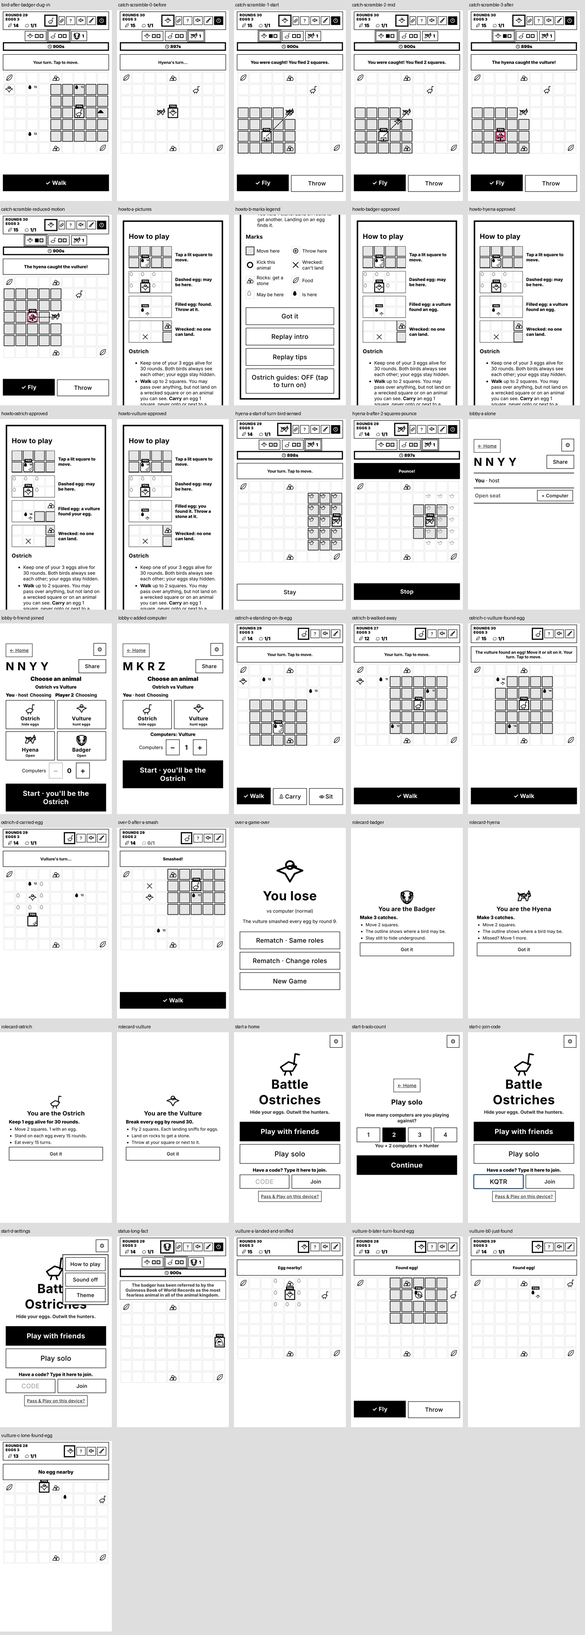
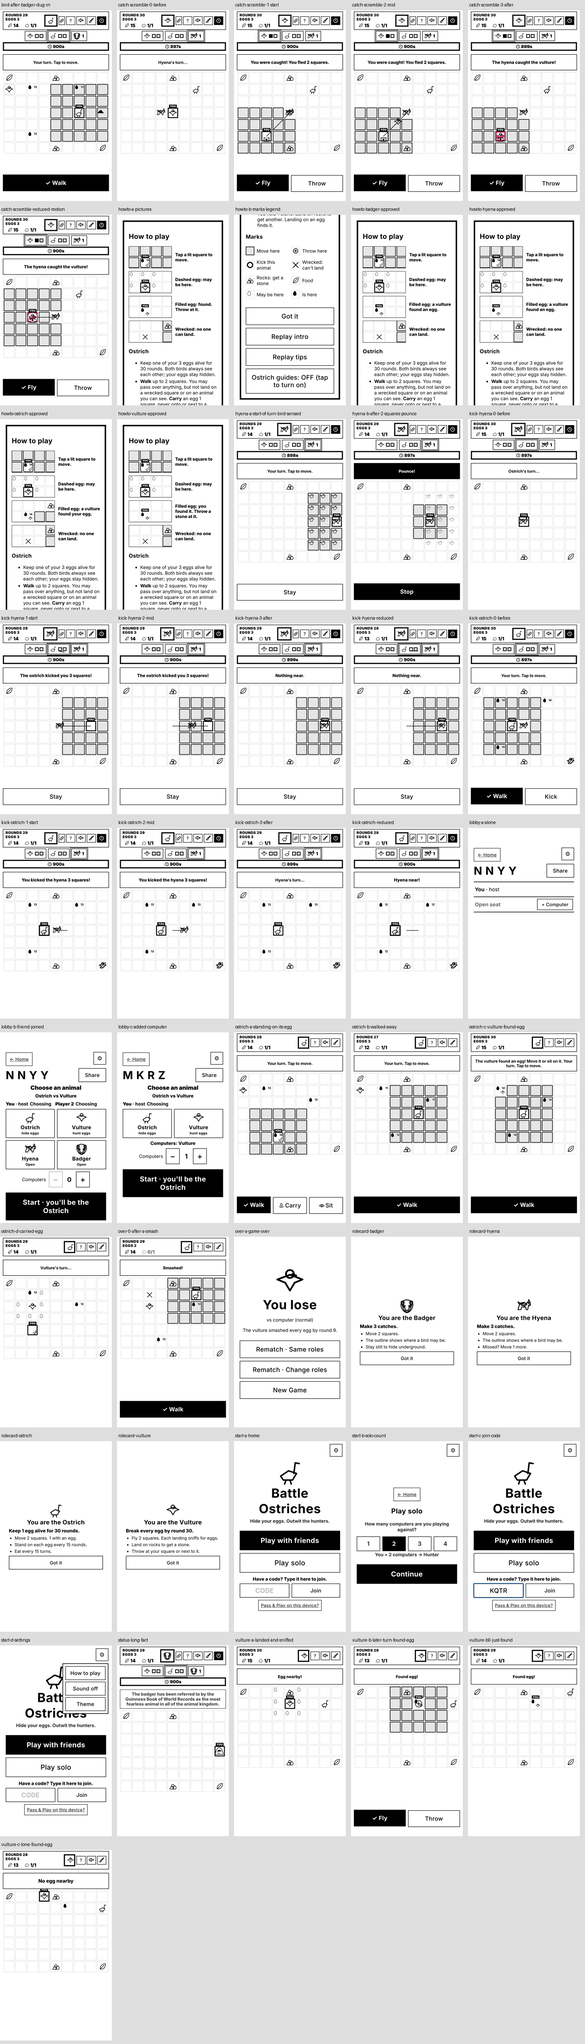
Restore knockout god view and viewer-safe interaction motion

diff --git a/server.js b/server.js
@@ -128,10 +128,11 @@ function view3(room, role) {
     v = view(sub, role); v.myTurn = mine; v.joined = SEATS3.every(s => room.players[s]); v.ai = null;
     if (role === 'blue' && !mine) { v.moves = []; v.carryMoves = []; v.can = { sit: false, carry: false }; }
     if (role === 'red' && !mine) { v.fly = []; v.throw = []; }
-    // Knockout does not grant new sight; only the finished game reveals the board.
+    // Brian: an eliminated bird watches a read-only full board for the rest of the game.
     if (g.phase === 'play' && T.isOut(g, role)) {
-      v.myTurn = false; v.moves = []; v.carryMoves = []; v.fly = []; v.throw = []; v.hmoves = [];
-      v.can = { sit: false, carry: false };
+      v.god = true; v.myTurn = false; v.moves = []; v.carryMoves = []; v.fly = []; v.throw = []; v.hmoves = [];
+      v.can = { sit: false, carry: false }; v.ostrich = g.ostrich; v.vulture = g.vulture; v.eggs = eggView(g);
+      h3.hunter = t.h.slice(); h3.burrowed = !!t.burrowed; if (h3.popout) h3.popout.seen = true; if (lc) lc.at = t.lastCatch.at;
     }
   }
   // Kick: the ostrich's options; the kick itself is announced to every seat, the square it ended on only to a seat that can see that square
@@ -244,8 +245,11 @@ function viewT(room, seat) {
     kickTargets: mine ? TT.kickTargets(g, seat) : [], kickNear: mine && TT.kickable(g, seat).length > 0 });
   if (isV) Object.assign(v, { fly: mine ? TT.flyTargets(g, seat) : [], throw: mine ? TT.throwTargets(g, seat) : [] });
   if (myB.out && g.phase === 'play') {
-    v.myTurn = false; v.moves = []; v.carryMoves = []; v.fly = []; v.throw = []; v.hmoves = [];
-    v.can = { sit: false, carry: false, kick: false }; v.kickTargets = []; v.kickNear = false;
+    v.god = true; v.myTurn = false; v.moves = []; v.carryMoves = []; v.fly = []; v.throw = []; v.hmoves = [];
+    v.can = { sit: false, carry: false, kick: false }; v.kickTargets = []; v.kickNear = false; v.kick = kickOf(true); v.eggs = eggs();
+    v.h3.pieces = TT.OS.concat(TT.VS).filter(s => s !== seat && TT.live(g, s))
+      .map(s => ({ seat: s, type: TT.isO(s) ? 'o' : 'v', p: g.b[s].pos, mate: (TT.isO(s) && isO) || (TT.isV(s) && isV), carrying: isO && TT.isO(s) && g.b[s].carrying != null }));
+    if (g.h) { v.h3.hunter = g.h.p.slice(); v.h3.burrowed = !!g.h.burrowed; if (v.h3.popout) v.h3.popout.seen = true; if (lc) lc.at = g.lastCatch.at; }
   } else if (myB.out) { v.myTurn = false; v.moves = []; v.carryMoves = []; v.fly = []; v.throw = []; }
   return stamp(room, v, seat);
 }
@@ -327,8 +331,10 @@ function viewH(room, seat) {
     if (seat === 'blue' && !mine) { v.moves = []; v.carryMoves = []; v.can = { sit: false, carry: false }; }
     if (seat === 'red' && !mine) { v.fly = []; v.throw = []; }
     if (g.phase === 'play' && HU.isOut(g, seat)) {
-      v.myTurn = false; v.moves = []; v.carryMoves = []; v.fly = []; v.throw = []; v.hmoves = [];
-      v.can = { sit: false, carry: false };
+      v.god = true; v.myTurn = false; v.moves = []; v.carryMoves = []; v.fly = []; v.throw = []; v.hmoves = [];
+      v.can = { sit: false, carry: false }; v.ostrich = g.ostrich; v.vulture = g.vulture; v.eggs = eggView(g);
+      h3.hunters = HU.HUNTERS.map(h => ({ kind: h, p: t.hs[h].p.slice(), burrowed: !!t.hs[h].burrowed, me: false }));
+      if (h3.rival) h3.rival.to = t.rival.to; if (h3.popout) h3.popout.seen = true; if (lc) lc.at = t.lastCatch.at;
     }
   }
   if (seat === 'blue') { v.kickTargets = mine && !v.god ? HU.kickTargetsH(g) : []; v.kickNear = !!mine && !v.god && HU.kickableH(g).length > 0; v.can = Object.assign(v.can || {}, { kick: v.kickTargets.length > 0 }); }
@@ -374,6 +380,17 @@ function viewerIsHost(room, v) {
   return roster.some(r => r.host && (r.role === v.role || (v.role === 'hunter' && (r.role === v.kind || r.role === 'hunter'))));
 }
 // picked: true means Start gave this seat to the player; they did not choose it (lobby.js plan). Roster seat = view seat.
+// Motion packets contain ONLY squares this viewer may see. Null steps preserve public timing, not hidden destinations.
+const motionPath=require('./public/push-motion').path;
+function trailView(room,v,seat,key,from,to,wrap=false,n=3){
+ const g=room.g,pts=motionPath(g.cfg,from,to,wrap,n),isHunter=['hunter','hyena','badger'].includes(seat),ownKind=v.kind||(v.h3||{}).kind;
+ return pts.map(p=>{if(g.phase==='over'||v.god)return p;
+  const bird=key==='blue'||key==='red'||/^[ov][12]$/.test(key);
+  if(bird)return isHunter?null:p;
+  if(isHunter){if(key===ownKind||key===seat)return p;return g.hunt&&v.hunter&&B.dist(v.hunter,p)<=2?p:null;}
+  const eye=v.role==='blue'?v.ostrich:v.vulture;return eye&&eye[0]>=0&&B.dist(eye,p)<=2?p:null;
+ });
+}
 function stamp(room, v, seat) {
   if (v && room && room.g) {
     if (room.g.phase === 'over') v.god = true; // Brian: finished-game full reveal for everyone.
@@ -385,8 +402,13 @@ function stamp(room, v, seat) {
     const g = room.g, t = g.three || g.hunt || (g.team && g.h ? g : null), over = g.phase === 'over';
     if (t) { const bur = g.three ? g.three.burrowed : g.hunt ? g.hunt.hs.badger.burrowed : g.h.burrowed, m = t.mound;
       v.h3.dug = t.dug ? { seq: t.dug.seq, round: t.dug.round } : null; v.h3.mound = !over && bur && m && (m.seenBy || []).includes(seat) ? m.at.slice() : null;
-      const bs = g.hunt && g.hunt.burst; v.h3.burst = bs ? { seq: bs.seq, round: bs.round, n: bs.n, to: over || ['hyena', 'badger'].includes(seat) || HU.seen(g, seat, 'hyena') ? bs.to : null } : null; } }
-  if (v && room && room.g) { const g = room.g; v.endWhy = g.phase === 'over' ? g.endWhy || null : null; v.stoneNote = g.lastStone ? { seq: g.lastStone.seq, text: g.lastStone.text, by: g.lastStone.by, targets: g.lastStone.targets || [] } : null;
+      const bs = g.hunt && g.hunt.burst; v.h3.burst = bs ? { seq: bs.seq, round: bs.round, n: bs.n, to: over || v.god || ['hyena', 'badger'].includes(seat) || HU.seen(g, seat, 'hyena') ? bs.to : null } : null; } }
+  if (v && room && room.g) { const g = room.g; v.endWhy = g.phase === 'over' ? g.endWhy || null : null; v.stoneNote = g.lastStone ? { seq: g.lastStone.seq, text: g.lastStone.text, by: g.lastStone.by, targets: g.lastStone.targets || [], kicker:g.lastStone.kicker||null } : null;
+    v.smashNote = g.lastSmash ? {seq:g.lastSmash.seq,by:g.lastSmash.by,owner:v.role==='blue'||v.god?g.lastSmash.owner:null} : null;
+    if(v.kick&&g.lastKick){const k=g.lastKick,key=g.team?(k.seat==='hunter'?g.h.kind:k.seat):k.who==='vulture'?'red':k.who;v.kick.trail=trailView(room,v,seat,key,k.from,k.to,true,k.moved||3);v.kick.key=key;}
+    if(v.stoneNote)v.stoneNote.trails=(g.lastStone.trails||[]).map(t=>({key:t.key,points:trailView(room,v,seat,t.key,t.from,t.to,false,2)}));
+    if(v.h3&&g.hunt){const rv=g.hunt.rival,bs=g.hunt.burst;if(v.h3.rival&&rv)v.h3.rival.trail=trailView(room,v,seat,rv.by==='hyena'?'badger':'hyena',rv.at,rv.to,false,2);if(v.h3.burst&&bs)v.h3.burst.trail=trailView(room,v,seat,'hyena',bs.at,bs.to,false,2);}
+
     // anyone who can see the ostrich sees it sit: birds always; hunters only through ambush sight (a buried badger with the ostrich next to it)
     const hunterSeat = ['hunter', 'hyena', 'badger'].includes(seat) && g.phase !== 'over';
     const amb = !hunterSeat ? [] : (g.three && seat === 'hunter' ? T.ambushSight(g) : g.hunt && seat === 'badger' ? HU.ambushSight(g) : g.team && seat === 'hunter' ? TT.ambushSight(g) : []);

diff --git a/public/push-motion.js b/public/push-motion.js
@@ -22,14 +22,19 @@
  function events(s,prev){if(!prev||!s.cfg||!(s.phase==='play'||s.phase==='over'&&prev.phase==='play'))return [];const out=[],a=positions(prev),b=positions(s),h=s.h3||{},old=prev.h3||{};
   const add=(key,from,to,wrap,max)=>{const points=path(s.cfg,from,to,wrap,max);if(points.length>1&&!out.some(e=>e.key===key))out.push({key,points});};
   const lc=h.lastCatch;if(s.role!=='hunter'&&fresh(lc,old.lastCatch)&&!lc.ko&&valid(lc.at)&&valid(lc.to))add(lc.bird,lc.at,lc.to,false,2);
+  if(fresh(s.kick,prev.kick)&&s.kick.trail&&s.kick.trail.some(valid)&&s.kick.trail.length>1)out.push({key:s.kick.key,points:s.kick.trail});
   if(fresh(s.kick,prev.kick)&&valid(s.kick.to))for(const key in b)if(same(b[key],s.kick.to)&&valid(a[key]))add(key,a[key],b[key],true,s.kick.moved||3);
+  if(fresh(h.rival,old.rival)&&h.rival.trail&&h.rival.trail.some(valid)&&h.rival.trail.length>1)out.push({key:h.rival.by==='badger'?'hyena':'badger',points:h.rival.trail});
   if(fresh(h.rival,old.rival)&&valid(h.rival.to)){const key=h.rival.by==='badger'?'hyena':'badger';add(key,a[key],h.rival.to,false,2);}
+  if(fresh(h.burst,old.burst)&&h.burst.trail&&h.burst.trail.some(valid)&&h.burst.trail.length>1)out.push({key:'hyena',points:h.burst.trail});
   if(fresh(h.burst,old.burst)&&valid(h.burst.to))add('hyena',a.hyena,h.burst.to,false,2);
+  if(fresh(s.stoneNote,prev.stoneNote))for(const t of s.stoneNote.trails||[])if(t.points.some(valid)&&t.points.length>1)out.push({key:t.key,points:t.points});
   if(fresh(s.stoneNote,prev.stoneNote))for(const key in b)if(valid(a[key])&&!same(a[key],b[key]))add(key,a[key],b[key],false,2);
   return out;
  }
  function run(s,prev,board){if(typeof document==='undefined')return;const stage=document.getElementById('stage');if(!stage)return;
-  const pending=events(s,prev),current=positions(s);
+  const pending=events(s,prev),current=positions(s);cause(s,prev,board);
+  stage.querySelectorAll('.partial-motion').forEach(l=>{if(l._stamp!==JSON.stringify([s.turn,s.round,s.lastAction,current]))l._finish();else l._bind();});
   // Duplicate state packets may redraw the board during a push. Keep the original
   // one-second clock and bind the newly drawn destination piece, rather than jumping.
   stage.querySelectorAll('.push-motion').forEach(layer=>{
@@ -38,6 +43,7 @@
    if(a&&layer._moving){a.style.visibility='hidden';layer._hidden.push(a);}
   });
   for(const ev of pending){
+   if(ev.points.some(p=>!valid(p))){partial(ev,s,board,stage,current);continue;}
    const last=ev.points[ev.points.length-1],cell=board.children[last[1]*s.cfg.cols+last[0]];if(!cell)continue;
    const cls=ev.key==='blue'||/^o\d/.test(ev.key)?'.po':ev.key==='red'||/^v\d/.test(ev.key)?'.pv':'.ph.h'+ev.key;
    const actor=cell.querySelector('.pc'+cls);if(!actor)continue;
@@ -64,6 +70,29 @@
     }
    }
    setTimeout(layer._finish,1050);
+  }
+ }
+ // Partial slides never infer a missing square: hold/fade at the last permitted square.
+ function partial(ev,s,board,stage,current){
+  const known=ev.points.filter(valid);if(!known.length)return;const first=known[0],sr=stage.getBoundingClientRect(),c=board.children[first[1]*s.cfg.cols+first[0]],r=c.getBoundingClientRect();
+  const cls=ev.key==='blue'||/^o[12]$/.test(ev.key)?'po':ev.key==='red'||/^v[12]$/.test(ev.key)?'pv':'ph h'+ev.key;
+  const tmp=document.createElement('div');tmp.className='pc '+cls;tmp.style.visibility='hidden';tmp.innerHTML=ev.key==='hyena'||ev.key==='badger'?window.T3UI.KIND[ev.key].art:'';c.appendChild(tmp);const ar=tmp.getBoundingClientRect();tmp.remove();
+  const layer=document.createElement('div');layer.className='partial-motion';layer.setAttribute('aria-hidden','true');layer._stamp=JSON.stringify([s.turn,s.round,s.lastAction,current]);layer.style.cssText='position:absolute;inset:0;pointer-events:none;z-index:190';
+  const NS='http://www.w3.org/2000/svg',svg=document.createElementNS(NS,'svg');svg.style.cssText='position:absolute;inset:0;width:100%;height:100%;overflow:visible';
+  const xy=p=>{const x=board.children[p[1]*s.cfg.cols+p[0]].getBoundingClientRect();return{x:x.left-sr.left+x.width/2,y:x.top-sr.top+x.height/2};};
+  for(let i=1;i<ev.points.length;i++)if(valid(ev.points[i-1])&&valid(ev.points[i])){const a=xy(ev.points[i-1]),b=xy(ev.points[i]),l=document.createElementNS(NS,'line');for(const [k,v]of Object.entries({x1:a.x,y1:a.y,x2:b.x,y2:b.y,stroke:'currentColor','stroke-width':2,'stroke-dasharray':'3 3'}))l.setAttribute(k,v);svg.appendChild(l);}
+  layer.appendChild(svg);stage.appendChild(layer);layer._hidden=[];layer._moving=!matchMedia('(prefers-reduced-motion:reduce)').matches;layer._bind=()=>{const end=ev.points[ev.points.length-1];if(!layer._moving||!valid(end))return;const cell=board.children[end[1]*s.cfg.cols+end[0]],pc=cell.querySelector('.pc.'+cls.split(' ').join('.'));if(pc){pc.style.visibility='hidden';layer._hidden.push(pc);}};layer._bind();layer._finish=()=>{layer._hidden.forEach(e=>e.style.visibility='');layer.remove();};
+  if(!matchMedia('(prefers-reduced-motion:reduce)').matches){const copy=tmp.cloneNode(true);copy.classList.add('push-actor');copy.style.cssText=`position:absolute!important;left:${ar.left-sr.left}px!important;top:${ar.top-sr.top}px!important;width:${ar.width}px!important;height:${ar.height}px!important;border:0!important;background:transparent!important;visibility:visible!important;opacity:1!important;pointer-events:none!important;`;layer.appendChild(copy);
+   const base=xy(first);let last=base;const frames=ev.points.map((p,i)=>{if(valid(p))last=xy(p);return {transform:`translate(${last.x-base.x}px,${last.y-base.y}px)`,opacity:valid(p)?1:0,offset:i/(ev.points.length-1)};});copy.animate(frames,{duration:1000,easing:'linear'});
+  }setTimeout(layer._finish,1050);
+ }
+ function cause(s,prev,board){if(!prev)return;const h=s.h3||{},old=prev.h3||{},items=[];
+  if(fresh(s.kick,prev.kick))items.push({by:s.kick.by||'blue',kick:true});
+  if(fresh(s.stoneNote,prev.stoneNote)&&s.stoneNote.targets?.length)items.push({by:s.stoneNote.by||'red'});
+  if(fresh(h.rival,old.rival))items.push({by:h.rival.by});if(fresh(h.burst,old.burst))items.push({by:'badger'});if(fresh(h.lastCatch,old.lastCatch))items.push({by:h.lastCatch.by||h.kind});
+  for(const item of items){const cls=item.by==='blue'||/^o[12]$/.test(item.by)?'.pc.po':item.by==='red'||/^v[12]$/.test(item.by)?'.pc.pv':'.pc.h'+item.by;
+   const p=positions(s)[item.by],cell=valid(p)?board.children[p[1]*s.cfg.cols+p[0]]:null,pc=cell&&cell.querySelector(cls),chip=document.querySelector('#h3bar [data-b="'+item.by+'"]'),el=pc||chip;if(!el)continue;el.classList.add('push-cause');setTimeout(()=>el.classList.remove('push-cause'),1050);
+   if(item.kick){const leg=document.createElement('i');leg.className='kick-leg';el.appendChild(leg);setTimeout(()=>leg.remove(),1050);}
   }
  }
  const api={path,positions,events,run};if(typeof module!=='undefined')module.exports=api;root.PUSH_MOTION=api;

diff --git a/public/catchtext.js b/public/catchtext.js
@@ -2,7 +2,8 @@
 // Rules live in three.js / hunt.js / team.js; this only turns a lastCatch into a sentence. The numbers come from the rules, never typed here.
 (function () {
   const isVulture = b => b === 'red' || b === 'v1' || b === 'v2';
-  const birdWord = b => isVulture(b) ? 'vulture' : 'ostrich';
+  const birdWord = b => isVulture(b) ? 'vulture' : b==='o1'?'Ostrich 1':b==='o2'?'Ostrich 2':'ostrich';
+  const birdObject=b=>/^o[12]$/.test(b)?birdWord(b):'the '+birdWord(b);
   const hunterWord = k => k === 'badger' ? 'badger' : 'hyena';
   const SEAT = { o1: 'Ostrich 1', o2: 'Ostrich 2', v1: 'Vulture 1', v2: 'Vulture 2' };
   const more = n => n === 1 ? 'one more catch' : n + ' more catches';
@@ -21,7 +22,7 @@
   function catchLine(lc, viewer, kind, left) {
     if(!lc.ko){
       if(viewer===lc.bird){const n=lc.at&&lc.to?Math.max(Math.abs(lc.to[0]-lc.at[0]),Math.abs(lc.to[1]-lc.at[1])):0;return `You were caught! You fled ${n} square${n===1?'':'s'}.`;}
-      return `The ${hunterWord(kind||lc.by)} caught the ${birdWord(lc.bird)}!`;
+      return `The ${hunterWord(kind||lc.by)} caught ${birdObject(lc.bird)}!`;
     }
     const line = baseLine(lc, viewer, kind, left);
     return hunterWord(kind || lc.by) === 'badger' ? line + ' ' + BL.catchTail(lc) : line;
@@ -34,7 +35,7 @@
     }
     if (viewer === 'hunter' || (lc.by && viewer === lc.by))
       return lc.ko ? `${bird[0].toUpperCase() + bird.slice(1)} knocked out!` : `Caught the ${bird}!`;
-    return `The ${hunter} ${lc.ko ? 'knocked out' : 'caught'} the ${bird}.`;
+    return `The ${hunter} ${lc.ko ? 'knocked out' : 'caught'} ${birdObject(lc.bird)}.`;
   }
   // banner for a bird that is out ("The ostrich is out."; in 2 vs 2 the seat name: "Ostrich 1 is out.")
   const outLine = b => SEAT[b] ? `${SEAT[b]} is out.` : `The ${birdWord(b)} is out.`;
@@ -57,8 +58,9 @@
   function newEvents(seen, S, prev) {
     const out = [], h = (S && S.h3) || {};
     if (!S) return out;
-    if (S.phase && S.phase.startsWith('setup')) { seen.pop = seen.rival = seen.kick = seen.stone = seen.dug = seen.burst = 0; return out; }
+    if (S.phase && S.phase.startsWith('setup')) { seen.pop = seen.rival = seen.kick = seen.stone = seen.dug = seen.burst = seen.smash = 0; return out; }
     const po = h.popout, rv = h.rival, k = S.kick;
+    if(S.smashNote&&S.smashNote.seq!==seen.smash){seen.smash=S.smashNote.seq;if(prev)out.push({kind:'smash',text:'The vulture smashed an egg.'});}
     const la=S.lastAction;if(prev&&h.team&&S.role==='red'&&la&&la.type==='fly'&&la.spotted&&la.seat!==h.mySeat&&JSON.stringify(la)!==JSON.stringify(prev.lastAction))out.push({kind:'teamFound',text:'Your teammate found an egg.'});
     if (k && k.seq !== seen.kick) { seen.kick = k.seq; if (prev) out.push({ kind: 'kick', text: kickLine(k.who, k.moved, S.cfg && S.cfg.kickPush), square: k.to || null }); }
     if (S.stoneNote && S.stoneNote.seq !== seen.stone) { seen.stone = S.stoneNote.seq; if (prev) out.push({ kind: 'stone', text: S.stoneNote.text }); }
@@ -72,19 +74,22 @@
   function viewerEvent(e,S) {
     const h=S.h3||{},seat=h.mySeat||S.role,viewer=S.role==='hunter'?(S.kind||h.kind||seat):seat;
     const name=x=>SEAT[x]?SEAT[x].toLowerCase():x==='blue'?'ostrich':x==='red'?'vulture':x;
+    if(e.kind==='smash'){const n=S.smashNote;if(seat===n.by)return 'You smashed an egg!';if(S.role==='blue')return n.owner&&/^o[12]$/.test(n.owner)&&seat!==n.owner?`The vulture smashed ${SEAT[n.owner]}'s egg!`:'The vulture smashed your egg!';return 'The vulture smashed an egg.';}
     if(e.kind==='kick') {const k=S.kick,n=k.moved==null?(S.cfg||{}).kickPush:k.moved,who=kickWho(k.who),unit=n===1?'square':'squares';
       if(n===0)return e.text;
-      if(seat===(k.by||'blue'))return `You, the ${name(seat)}, kicked the ${who} ${n} ${unit} away.`;
-      if(viewer===(k.target|| (who==='vulture'?'red':who)))return `The ostrich kicked you, the ${name(viewer)}, ${n} ${unit} away.`;
+      if(seat===(k.by||'blue'))return `You kicked the ${who} ${n} ${unit}!`;
+      if(viewer===(k.target|| (who==='vulture'?'red':who)))return `${SEAT[k.by]||'The ostrich'} kicked you ${n} ${unit}!`;
+      return `${SEAT[k.by]||'The ostrich'} kicked the ${who} ${n} ${unit}!`; // DRAFT watcher line
     }
+    if(e.kind==='stone'&&S.stoneNote&&SEAT[S.stoneNote.kicker]&&/^The ostrich kicked the stone/.test(e.text))return e.text.replace('The ostrich',SEAT[S.stoneNote.kicker]);
     if(e.kind==='stone'&&S.stoneNote&&S.stoneNote.targets&&S.stoneNote.targets.length) {
       const n=S.stoneNote,targets=n.targets.join(' and the ');
-      if(seat===n.by)return `You, the ${name(seat)}, hit the ${targets} with a stone.`;
-      if(n.targets.includes(viewer))return `The vulture's stone hit you, the ${name(viewer)}.`;
+      if(seat===n.by)return `Your stone hit the ${targets}!`;
+      if(n.targets.includes(viewer))return 'A stone hit you!';
     }
     if(e.kind==='rival') {const by=h.rival.by,other=by==='hyena'?'badger':'hyena';
-      if(viewer===by)return `You, the ${by}, shoved the ${other}.`;
-      if(viewer===other)return `The ${by} shoved you, the ${other}.`;
+      if(viewer===by)return `You shoved the ${other}!`;
+      if(viewer===other)return `The ${by} shoved you!`;
     }
     if(e.kind==='burst') {
       if(viewer==='badger')return `You, the badger, burst out and shoved the hyena ${h.burst.n} square${h.burst.n===1?'':'s'}.`;

diff --git a/testviewprivacy.js b/testviewprivacy.js
@@ -1,19 +1,26 @@
 process.env.PORT='0';process.env.BO_NOSTORE='1';process.env.BO_BOTMS='900000';
 const A=require('assert'),S=require('./server'),{make}=require('./tests/hunter-fixtures'),T=require('./three'),H=require('./hunt'),TT=require('./team');
+function assertFull(f,role,label){const v=f.view(role),g=f.g;A.equal(v.god,true,label);A.equal(v.myTurn,false);A.deepEqual(v.eggs.map(e=>e.pos),g.eggs.map(e=>e.pos));A(!v.moves?.length&&!v.fly?.length&&!v.throw?.length&&!v.kickTargets?.length);
+ if(g.three)A.deepEqual(v.h3.hunter,g.three.h);if(g.h)A.deepEqual(v.h3.hunter,g.h.p);if(g.hunt)for(const k of ['hyena','badger'])A.deepEqual(v.h3.hunters.find(x=>x.kind===k).p,g.hunt.hs[k].p);
+ const h=g.three||g.h;if(h){h.kind='badger';h.burrowed=true;const buried=f.view(role);A.deepEqual(buried.h3.hunter,h.h||h.p,label+' buried badger position');A.equal(buried.h3.burrowed,true);}
+ if(g.hunt){g.hunt.hs.badger.burrowed=true;const b=f.view(role).h3.hunters.find(x=>x.kind==='badger');A.deepEqual(b.p,g.hunt.hs.badger.p);A.equal(b.burrowed,true,label+' buried badger visible in god view');}
+}
 for(const mode of ['3p','Hunters','5p']){
  const f=make(S,mode),g=f.g;A(f.fly());
  g.marks['3,3']='hit';g.marks['4,3']='stone';
  for(const r of f.roles.filter(r=>['hunter','hyena','badger'].includes(r))){const v=f.view(r);A.equal(v.marks['3,3'],'stone');A.equal(v.marks['4,3'],'stone');A(!v.eggs);}
  if(mode==='3p')T.knockout(g,f.red,'caught');else if(mode==='Hunters')H.knockout(g,f.red,'caught','hyena');else TT.knockout(g,f.red,'caught');
- A.equal(g.phase,'play');const out=f.view(f.red);A(!out.god,mode+' no mid-game god view');A(!out.eggs,mode+' out vulture gets no unknown eggs');A.equal(out.myTurn,false);
- A(!out.h3.hunter,mode+' no hidden hunter');A(!out.h3.hunters||out.h3.hunters.length===0,mode+' no hidden hunters');
+ A.equal(g.phase,'play');assertFull(f,f.red,mode+' out vulture');
  g.phase='over';for(const r of f.roles){const v=f.view(r);A(v.god);A.equal(v.eggs.length,g.eggs.length,mode+' end reveal '+r);}
- console.log('PASS knockout privacy, indistinguishable wreckage and full end reveal '+mode);
- const o=make(S,mode);if(mode==='3p')T.knockout(o.g,o.blue,'caught');else if(mode==='Hunters')H.knockout(o.g,o.blue,'caught','hyena');else TT.knockout(o.g,o.blue,'caught');const ov=o.view(o.blue);A.equal(o.g.phase,'play');A(!ov.god);A(!ov.h3.hunter);A(!ov.h3.hunters||!ov.h3.hunters.length,mode+' out ostrich gets no hidden hunters');
+ console.log('PASS full knockout god view, indistinguishable live hunter wreckage and end reveal '+mode);
+ const o=make(S,mode);if(mode==='3p')T.knockout(o.g,o.blue,'caught');else if(mode==='Hunters')H.knockout(o.g,o.blue,'caught','hyena');else TT.knockout(o.g,o.blue,'caught');A.equal(o.g.phase,'play');assertFull(o,o.blue,mode+' out ostrich');
  const k=make(S,mode),q=k.g;q.marks={};q.turn=k.blue;
  if(mode==='5p'){q.b.o1.pos=[3,3];q.b.o2.pos=[0,0];q.b.v1.pos=[8,6];q.b.v2.pos=[0,6];q.h.p=[4,3];A(TT.ostrichKick(q,k.blue,[4,3]));}
  else{q.ostrich=[3,3];q.vulture=[8,6];if(mode==='3p'){q.three.h=[4,3];A(T.ostrichKick3(q,[4,3]));}else{q.hunt.hs.hyena.p=[4,3];q.hunt.hs.badger.p=[8,0];A(H.ostrichKickH(q,[4,3]));}}
- const v=k.view(k.blue);A.equal(v.kick.to,null,mode+' kick landing hidden');A.equal(v.lastAction.to,null,mode+' move note landing hidden');A.equal(v.lastAction.type,'kick');
+ const v=k.view(k.blue);A.equal(v.kick.to,null,mode+' kick landing hidden');A.equal(v.lastAction.to,null,mode+' move note landing hidden');A.equal(v.lastAction.type,'kick');A.deepEqual(v.kick.trail,[[4,3],[5,3],null,null],mode+' only visible kick squares');A.deepEqual(k.view(mode==='Hunters'?'hyena':'hunter').kick.trail,[[4,3],[5,3],[6,3],[7,3]],mode+' kicked hunter sees own complete slide');
 }
 for(const n of [4,5]){const f=make(S,'5p');if(n===4){f.g.n=4;f.g.h=null;f.g.order=f.g.order.filter(r=>r!=='hunter');}A(f.fly());A.equal(f.view('v2').marks['2,1'],'spotted','vulture team shares exact found egg');for(const r of ['o1','o2'])A.equal(f.view(r).eggs.length,2,'ostrich team shares both nests');}
+for(const r of ['o1','v1']){const f=make(S,'5p');f.g.n=4;f.g.h=null;f.g.order=f.g.order.filter(x=>x!=='hunter');TT.knockout(f.g,r,'caught');A.equal(f.g.phase,'play');assertFull(f,r,'2v2 '+r);}
+const B=require('./game'),f=make(S,'3p'),g=B.newGame();for(const p of [[2,1],[6,1],[2,5]])A(B.placeEgg(g,p));A(B.placeOstrich(g,[6,5]));g.turn='blue';g.hungerLeft=1;A(B.ostrichStep(g,[5,5]));A.equal(g.phase,'over');const room={...f.room,three:false,g};for(const r of ['blue','red']){const v=S.view(room,r);A(v.god);A.equal(v.eggs.length,3);}
+console.log('PASS full view for 2v2 knockouts and Classic game-ending knockout');
 S.close();console.log('PASS team sharing retained in 2v2 and 5p');process.exit(0);

diff --git a/tools/shots-real-play.js b/tools/shots-real-play.js
@@ -117,7 +117,7 @@ const near = (a, c) => Math.max(Math.abs(a[0] - c[0]), Math.abs(a[1] - c[1]));
     await shot(O, 'ostrich-b-walked-away'); await O.evaluate(() => UI.card()); await sleep(400); await shot(O,'rolecard-ostrich');
     await O.context().close();
   }
-  if (want('hyena') || want('badger') || want('catch')) {
+  if (want('hyena') || want('badger') || want('catch') || want('kick')) {
     const lobby = async kind => {
       const A = await phone(b), Vp = await phone(b), H = await phone(b);
       await A.goto(U); await A.click('#playFriend'); await A.waitForSelector('#lobbyCode:not(:empty)'); const link = (await A.inputValue('#lobbyLink')).replace(/^http:\/\/[^/]+/, 'http://localhost:4172');
@@ -130,6 +130,23 @@ const near = (a, c) => Math.max(Math.abs(a[0] - c[0]), Math.abs(a[1] - c[1]));
       const act = (role, m) => { if (!server.act3(r3, role, m)) throw new Error('illegal ' + role + JSON.stringify(m)); bc(); };
       return { A, Vp, H, r3, g3, bc, act };
     };
+    if (want('kick')) {
+      const {A,Vp,H,g3,bc,act}=await lobby('hyena'),g=g3();g.turn='blue';g.ostrich=[3,3];g.vulture=[8,6];g.three.h=[4,3];g.three.pounce=false;bc();await sleep(3400);
+      await shot(A,'kick-ostrich-0-before');await shot(H,'kick-hyena-0-before');act('blue',{a:'kick',p:[4,3]});
+      await A.waitForSelector('.partial-motion .push-actor');await H.waitForSelector('.push-motion .push-actor');
+      const fade=await A.locator('.partial-motion .push-actor').evaluate(e=>e.getAnimations()[0].effect.getKeyframes().some(f=>f.opacity===0||f.opacity==='0'));if(!fade)throw new Error('missing sight-edge fade');
+      const ka=await A.evaluate(()=>UI._S().kick),kh=await H.evaluate(()=>UI._S().kick);
+      if(ka.to!==null||ka.trail.some(p=>p&&Math.max(Math.abs(p[0]-3),Math.abs(p[1]-3))>2))throw new Error('kick leaked a hidden landing/path square');
+      if(ka.trail.filter(Boolean).length!==2||kh.trail.filter(Boolean).length!==4)throw new Error('kick must fade at sight edge, while own phone sees all three steps');
+      if(await H.locator('#board .pc.po').count())throw new Error('hunter learned a hidden ostrich position');
+      if(!await A.locator('#board .pc.po .kick-leg').count()||!await H.locator('#h3bar [data-b="blue"] .kick-leg').count())throw new Error('missing viewer-correct kick cause');
+      await shot(A,'kick-ostrich-1-start');await shot(H,'kick-hyena-1-start');bc();await sleep(300);
+      if(!await A.locator('.partial-motion .push-actor').count())throw new Error('duplicate packet interrupted partial slide');
+      await shot(A,'kick-ostrich-2-mid');await shot(H,'kick-hyena-2-mid');await sleep(750);await shot(A,'kick-ostrich-3-after');await shot(H,'kick-hyena-3-after');
+      await A.emulateMedia({reducedMotion:'reduce'});await H.emulateMedia({reducedMotion:'reduce'});g.turn='blue';g.three.h=[4,3];bc();await sleep(100);act('blue',{a:'kick',p:[4,3]});await A.waitForSelector('.partial-motion');
+      if(await A.locator('.push-actor').count()||await H.locator('.push-actor').count())throw new Error('reduced-motion kick must have static trails only');
+      await shot(A,'kick-ostrich-reduced');await shot(H,'kick-hyena-reduced');for(const p of [A,Vp,H])await p.context().close();
+    }
     if (want('catch')) {
       const { A, Vp, H, g3, bc, act } = await lobby('hyena');
       const g=g3();g.turn='hunter';g.three.h=[3,3];g.three.pounce=false;g.vulture=[4,3];g.ostrich=[6,1];bc();await sleep(3400);

diff --git a/testplay.js b/testplay.js
@@ -38,7 +38,7 @@ function setup3(kind = 'hyena', h = [8, 3]) {
   assert(T.placeOstrich3(g, [6, 5])); return g;
 }
 
-ok('3p: eliminated bird remains read-only without gaining hidden sight', () => {
+ok('3p: eliminated bird gets a read-only god view; living seats do not', () => {
   const { room } = S.create3({ role: 'blue', bots: ['red', 'hunter'], kind: 'hyena' }, null);
   room.g = setup3('hyena', [0, 3]);
   assert.equal(S.view3(room, 'blue').showTimers, true);
@@ -53,10 +53,10 @@ ok('3p: eliminated bird remains read-only without gaining hidden sight', () => {
   assert(T.isOut(room.g, 'blue')); assert.equal(room.g.phase, 'play');
   room.g.three.burrowed = true; room.g.three.h = [0, 3];
   const dead = S.view3(room, 'blue');
-  assert.equal(dead.god, undefined); assert.equal(dead.myTurn, false);
+  assert.equal(dead.god, true); assert.equal(dead.myTurn, false);
   assert.deepEqual(dead.moves, []); assert.deepEqual(dead.carryMoves, []);
   assert.deepEqual(dead.can, { sit: false, carry: false, kick: false });
-  assert.equal(dead.h3.hunter, null); assert.equal(dead.h3.burrowed, false);
+  assert.deepEqual(dead.h3.hunter, [0, 3]); assert.equal(dead.h3.burrowed, true);
   assert.ok(dead.eggs.some(e => e.pos[0] === 2 && e.pos[1] === 1));
   assert.equal(S.act3(room, 'blue', { a: 'step', p: [5, 4] }), false);
   const red = S.view3(room, 'red');
@@ -77,7 +77,7 @@ ok('3p: a living ostrich can still act', () => {
   assert.equal(room.g.turn, 'hunter');
 });
 
-ok('5p: eliminated ostrich keeps team egg knowledge but cannot see the hidden hunter', () => {
+ok('5p: eliminated ostrich sees the burrowed hunter and all eggs; living seats do not', () => {
   const { room } = S.createT({ team: 5, role: 'o1', bots: ['v1', 'v2', 'o2', 'hunter'], kind: 'hyena' }, null);
   const g = room.g; g.phase = 'play'; g.turn = 'v1';
   g.b.o1.pos = [0, 0]; g.b.o2.pos = [2, 2]; g.b.v1.pos = [4, 2]; g.b.v2.pos = [4, 4];
@@ -87,8 +87,8 @@ ok('5p: eliminated ostrich keeps team egg knowledge but cannot see the hidden hu
   assert.ok(!before.god); assert.equal(before.h3.hunter, null); assert.equal(before.showTimers, true);
   g.b.o1.out = true; g.b.o1.why = 'caught'; g.b.o1.pos = TT.OFF.slice();
   const dead = S.viewT(room, 'o1');
-  assert.equal(dead.god, undefined); assert.equal(dead.myTurn, false); assert.deepEqual(dead.moves, []);
-  assert.equal(dead.h3.hunter, null); assert.equal(dead.h3.burrowed, false);
+  assert.equal(dead.god, true); assert.equal(dead.myTurn, false); assert.deepEqual(dead.moves, []);
+  assert.deepEqual(dead.h3.hunter, [8, 6]); assert.equal(dead.h3.burrowed, true);
   assert.ok(dead.eggs.some(e => e.pos && e.pos[0] === 3 && e.pos[1] === 3));
   assert.equal(S.actT(room, 'o1', { a: 'step', p: [1, 0] }), false);
   const v = S.viewT(room, 'v1');

diff --git a/testinteractiontext.js b/testinteractiontext.js
@@ -5,6 +5,12 @@ for(const mode of ['3p','Hunters','5p']){const f=make(S,mode),g=f.g;g.turn=f.red
  else{g.vulture=[3,3];if(mode==='3p'){g.three.h=[4,3];A(T.vultureThrow3(g,[4,3]));A(!g.three.popout,'hyena was not a burrowed badger');}else{g.hunt.hs.hyena.p=[4,3];g.hunt.hs.badger.p=[8,0];A(H.vultureThrowH(g,[4,3]));}}
  A.deepEqual(g.lastStone.targets,['hyena']);A.equal(g.lastStone.text,"The vulture's stone hit the hyena.");
  const doer=f.view(f.red),target=f.view(mode==='Hunters'?'hyena':'hunter'),e={kind:'stone',text:g.lastStone.text};
- A.equal(CT.viewerEvent(e,doer),mode==='5p'?'You, the vulture 1, hit the hyena with a stone.':'You, the vulture, hit the hyena with a stone.');A.equal(CT.viewerEvent(e,target),"The vulture's stone hit you, the hyena.");
+ A.equal(CT.viewerEvent(e,doer),'Your stone hit the hyena!');A.equal(CT.viewerEvent(e,target),'A stone hit you!');A.deepEqual(doer.stoneNote.trails[0].points,[[4,3],[5,3],null]);A.equal(target.stoneNote.trails[0].points.filter(Boolean).length,3);
 }
+for(const mode of ['3p','Hunters','5p']){const f=make(S,mode),g=f.g;A(f.fly());g.turn=f.red;if(mode==='3p')A(T.vultureThrow3(g,[2,1]));else if(mode==='Hunters')A(H.vultureThrowH(g,[2,1]));else A(TT.vultureThrow(g,f.red,[2,1]));
+ for(const r of f.roles){const v=f.view(r),e={kind:'smash',text:'The vulture smashed an egg.'};A.deepEqual(Object.keys(v.smashNote).sort(),['by','owner','seq']);if(v.role==='hunter'&&!v.god)A.equal(v.smashNote.owner,null);A.equal(CT.viewerEvent(e,v),r===f.red?'You smashed an egg!':r===f.blue?'The vulture smashed your egg!':r==='o2'?"The vulture smashed Ostrich 1's egg!":'The vulture smashed an egg.');}
+}
+const kick={kind:'kick',text:''},kv={role:'blue',kick:{who:'hyena',by:'blue',target:'hyena',moved:3}};A.equal(CT.viewerEvent(kick,kv),'You kicked the hyena 3 squares!');A.equal(CT.viewerEvent(kick,{...kv,role:'hunter',kind:'hyena'}),'The ostrich kicked you 3 squares!');
+A.equal(CT.viewerEvent(kick,{...kv,role:'hunter',kind:'hyena',h3:{mySeat:'hunter',team:true},kick:{...kv.kick,by:'o2'}}),'Ostrich 2 kicked you 3 squares!');
+for(const owner of ['o1','o2']){const f=make(S,'5p'),g=f.g;g.turn='v1';g.b.v1.pos=[3,3];g.b.o1.pos=[0,0];g.b.o2.pos=[8,0];g.b[owner].pos=[4,3];g.h.p=[8,6];A(TT.vultureThrow(g,'v1',[4,3]));A.equal(g.lastStone.kicker,owner);A.equal(CT.viewerEvent({kind:'stone',text:g.lastStone.text},f.view('v2')),`${owner==='o1'?'Ostrich 1':'Ostrich 2'} kicked the stone right back!`);}
 S.close();console.log('PASS actual stone hits name the actual hunter, never a false badger pop');process.exit(0);

diff --git a/testannounce.js b/testannounce.js
@@ -119,12 +119,12 @@ ok('2 vs 2 + hunter: a catch and a knock-out reach every seat; the square only t
   const room = roomT('hyena'), g = room.g = team('hyena', pos); assert.ok(TT.hunterMove(g, [4, 2])); assert.equal(g.lastCatch.ko, false);
   const v = seatsOf(s => S.viewT(room, s), ST);
   for (const s of ST) { assert.equal(v[s].h3.lastCatch.bird, 'o1', s); assert.match(lineFor(v[s], s), /hyena|ostrich|[Cc]aught|knocked/, s); }
-  assert.equal(lineFor(v.o1, 'o1'), "You were caught! You fled 2 squares."); assert.equal(lineFor(v.o2, 'o2'), 'The hyena caught the ostrich!'); assert.equal(lineFor(v.v1, 'v1'), 'The hyena caught the ostrich!'); assert.equal(lineFor(v.hunter, 'hunter'), 'The hyena caught the ostrich!');
+  assert.equal(lineFor(v.o1, 'o1'), "You were caught! You fled 2 squares."); assert.equal(lineFor(v.o2, 'o2'), 'The hyena caught Ostrich 1!'); assert.equal(lineFor(v.v1, 'v1'), 'The hyena caught Ostrich 1!'); assert.equal(lineFor(v.hunter, 'hunter'), 'The hyena caught Ostrich 1!');
   assert.deepEqual(v.o1.h3.lastCatch.at, [4, 2]); assert.deepEqual(v.hunter.h3.lastCatch.at, [4, 2]); assert.deepEqual(v.v2.h3.lastCatch.at, [4, 2], 'v2 at (4,4) is 2 squares from the hyena');
   for (const s of ['o2', 'v1']) { assert.equal(v[s].h3.lastCatch.at, null, s + ' cannot see the hyena'); assert.equal(has(v[s], [4, 2]), false, s); }
   const rk = roomT('badger'), k = rk.g = team('badger', pos); k.b.o1.catches = 1; assert.ok(TT.hunterMove(k, [4, 2])); assert.equal(k.lastCatch.ko, true);
   const w = seatsOf(s => S.viewT(rk, s), ST);
   for (const s of ST) assert.equal(w[s].h3.lastCatch.ko, true, s);
-  assert.ok(lineFor(w.o1, 'o1').startsWith('The badger knocked you out.')); assert.ok(lineFor(w.o2, 'o2').startsWith('The badger knocked out the ostrich.')); assert.ok(lineFor(w.hunter, 'hunter').startsWith('Ostrich knocked out!')); });
+  assert.ok(lineFor(w.o1, 'o1').startsWith('The badger knocked you out.')); assert.ok(lineFor(w.o2, 'o2').startsWith('The badger knocked out Ostrich 1.')); assert.ok(lineFor(w.hunter, 'hunter').startsWith('Ostrich 1 knocked out!')); });
 
 console.log(`PASS testannounce (${n} groups)`); process.exit(0);

diff --git a/game.js b/game.js
@@ -214,7 +214,7 @@ function resolveThrow(g, W, target) {
     const t = W.thrower();
     if (W.ostrichAt(p)) {
       if (kicked) { out.used = true; out.result = 'bounce'; return out; } // a stone is never kicked back twice
-      out.kickedBack = true; out.result = 'bounce'; kicked = true; out.line = 'The ostrich kicked the stone right back!';
+      out.kicker = W.ostrichSeatAt ? W.ostrichSeatAt(p) : 'blue'; out.kickedBack = true; out.result = 'bounce'; kicked = true; out.line = 'The ostrich kicked the stone right back!';
       if (isFood(g, t) || isRock(g, t)) { // the vulture stands where a stone cannot land: it bounces off and goes one square on, straight past the vulture
         out.line = isFood(g, t) ? 'Boing! The stone bounced off the leaf.' : 'Clang! The vulture batted it away with a rock.';
         const n = [t[0] + sgn(t[0] - p[0]), t[1] + sgn(t[1] - p[1])];
@@ -252,7 +252,8 @@ function vultureThrow(g, p, mkW) {
   const from = g.vulture.slice(), r = resolveThrow(g, (mkW || classicW)(g), p);
   g.lastAction = { type: 'throw', from, p: p.slice(), result: r.result, line: r.line, kickedBack: r.kickedBack, hop: r.hop, used: r.used };
   if (r.result === 'bounce') g.lastAction.egg = !!(g.carrying !== null || eggAt(g, p)); // a kicked stone does not say what the ostrich guards
-  if (r.line) g.lastStone = { seq: ++g.stoneSeq, text: r.line, by: 'red', targets: r.pushed.map(x => x.kind), round: g.round };
+  if (r.result === 'hit') g.lastSmash = {seq:g.smashSeq=(g.smashSeq||0)+1,by:'red',owner:'blue'};
+  if (r.line) g.lastStone = { seq: ++g.stoneSeq, text: r.line, by: 'red', targets: r.pushed.map(x => x.kind), kicker:r.kicker||null, trails: r.pushed.map(x=>({key:x.kind,from:x.from,to:x.to})), round: g.round };
   if (!aliveEggs(g).length) { g.winner = 'red'; g.winBy = 'smashed'; g.phase = 'over'; } else { g.turn = 'blue'; dropCarried(g); }
   return r.result;
 }

diff --git a/team.js b/team.js
@@ -127,6 +127,7 @@ function vultureFly(g, s, p) { clearOut(g);
 }
 // The stone resolver's view of this mode: either ostrich kicks it back, the hunter is pushed 2 away from the vulture and a buried badger comes up.
 const stoneW = (g, s) => { const b = g.b[s]; return { thrower: () => b.pos.slice(), setThrower: q => { b.pos = q.slice(); },
+  ostrichSeatAt: p => OS.find(o=>live(g,o)&&K(g.b[o].pos)===K(p)),
   ostrichAt: p => OS.some(o => live(g, o) && K(g.b[o].pos) === K(p)), eggAt: p => eggAt(g, p),
   pushAt: (p, dir, n) => { if (!g.h || K(g.h.p) !== K(p)) return []; const from = g.h.p.slice(), wasBur = g.h.burrowed; g.h.burrowed = false; g.h.dig = 0; if (wasBur) g.popout = { seq: g.popSeq = (g.popSeq || 0) + 1, round: g.round };
     g.h.p = B.slide(g.cfg, from, dir, n, m => birdsIn(g).some(o => K(g.b[o].pos) === K(m)), g.marks); return [{ kind: g.h.kind, from, to: g.h.p.slice() }]; },
@@ -137,7 +138,8 @@ function vultureThrow(g, s, p) { clearOut(g);
   const from = b.pos.slice(), r = B.resolveThrow(g, stoneW(g, s), p);
   g.lastAction = { seat: s, type: 'throw', from, p: p.slice(), result: r.result, line: r.line, kickedBack: r.kickedBack, hop: r.hop, used: r.used };
   if (r.result === 'bounce') g.lastAction.egg = !!(eggAt(g, p) || OS.some(o => live(g, o) && K(g.b[o].pos) === K(p) && g.b[o].carrying !== null));
-  if (r.line) g.lastStone = { seq: ++g.stoneSeq, text: r.line, by: s, targets: r.pushed.map(x => x.kind), round: g.round };
+  if (r.result === 'hit') g.lastSmash = {seq:g.smashSeq=(g.smashSeq||0)+1,by:s,owner:OS[(g.eggs.find(e=>e.id===r.smashed)||{}).nest]||null};
+  if (r.line) g.lastStone = { seq: ++g.stoneSeq, text: r.line, by: s, targets: r.pushed.map(x => x.kind), kicker:r.kicker||null, trails: r.pushed.map(x=>({key:x.kind,from:x.from,to:x.to})), round: g.round };
   dropAll(g); next(g); return r.result;
 }
 // --- hunter (5 players) ---

diff --git a/e2e-kick.js b/e2e-kick.js
@@ -49,7 +49,7 @@ const at = { state: 'attached' };
   for (let i = 0; i < 100 && !g.lastKick; i++) await A.waitForTimeout(50);
   assert.deepEqual(g.hunt.hs.badger.p, [5, 5], 'pushed 2 squares straight away: ' + JSON.stringify([g.hunt.hs.badger.p, g.hunt.hs.hyena.p, g.vulture, g.ostrich])); assert.deepEqual(g.ostrich, [2, 5], 'the ostrich stays'); assert.equal(g.lastKick.who, 'badger');
   const line = 'Ostrich kicked the badger 2 squares away.';
-  for (const [P, name] of [[A, 'ostrich'], [Y, 'badger']]) await P.waitForFunction(t => (document.getElementById('announce') || {}).textContent === t, name==='ostrich'?'You, the ostrich, kicked the badger 2 squares away.':'The ostrich kicked you, the badger, 2 squares away.', { timeout: 6000 }).catch(e => { throw new Error(name + ' phone never showed the kick line: ' + e.message); });
+  for (const [P, name] of [[A, 'ostrich'], [Y, 'badger']]) await P.waitForFunction(t => (document.getElementById('announce') || {}).textContent === t, name==='ostrich'?'You kicked the badger 2 squares!':'The ostrich kicked you 2 squares!', { timeout: 6000 }).catch(e => { throw new Error(name + ' phone never showed the kick line: ' + e.message); });
   for (const P of [A, Y]) await P.waitForFunction(t => (document.getElementById('badgerline') || {}).textContent === t, BL.LINES.kicked, { timeout: 8000 });
   assert.equal(BL.LINES.kicked, "Ouch. I mean... badger doesn't care.");
   await shot(A, '3-kick-ostrich'); await shot(Y, '4-kick-badger');

diff --git a/testv2.js b/testv2.js
@@ -148,7 +148,7 @@ ok('views: a hunter is never told where a caught bird scrambled to; the bird is;
   assert.equal(v.red.h3.lastCatch.at, null, 'the vulture at (0,6) cannot see the hyena'); });
 ok('views: a stone line goes to every seat with no square; kick lines say how far it really went (wrapped kicks included)', () => {
   const room = room3('hyena'), g = room.g = three('hyena', [5, 2], [4, 3], [5, 3]); g.turn = 'red'; g.stones = 1; assert.ok(T.vultureThrow3(g, [4, 3]));
-  for (const s of SEATS3) { const v = S.view3(room, s); assert.equal(v.stoneNote.text, 'The ostrich kicked the stone right back!'); assert.deepEqual(Object.keys(v.stoneNote).sort(), ['by', 'seq', 'targets', 'text']); }
+  for (const s of SEATS3) { const v = S.view3(room, s); assert.equal(v.stoneNote.text, 'The ostrich kicked the stone right back!'); assert.deepEqual(Object.keys(v.stoneNote).sort(), ['by', 'kicker', 'seq', 'targets', 'text', 'trails']); }
   const r2 = room3('hyena'), k = r2.g = three('hyena', [1, 6], [6, 3], [7, 3]); k.turn = 'blue'; assert.ok(T.ostrichKick3(k, [7, 3])); assert.equal(S.view3(r2, 'blue').kick.moved, 3); assert.deepEqual(k.vulture, [1, 3]); });
 ok('views: birds (not hunters) see an ostrich that is sitting; the end screen carries one plain reason', () => {
   const room = room3('hyena'), g = room.g = three('hyena', [0, 6], [2, 1], [5, 5]); g.turn = 'blue'; assert.ok(T.ostrichAct3(g, 'sit'));
